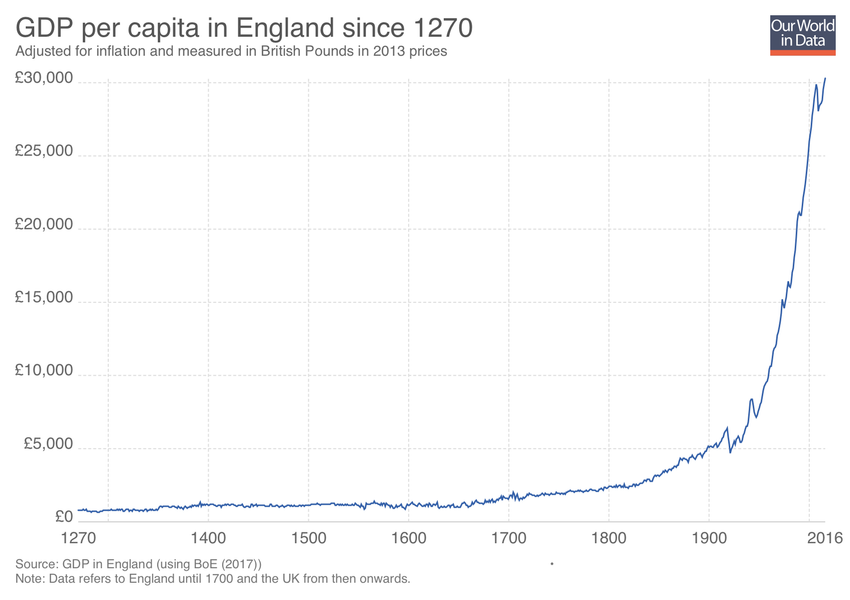
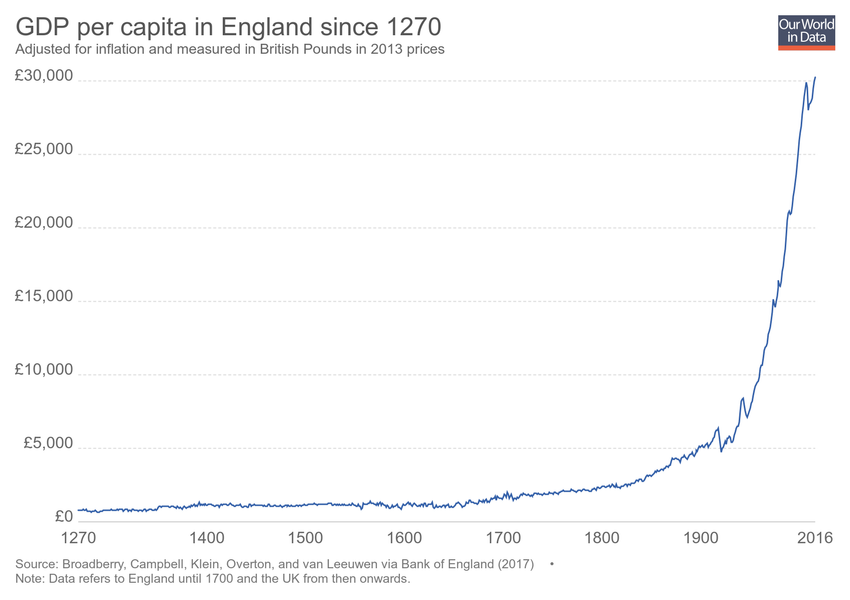
Updating chart GDP-per-capita-in-the-uk-since-1270

diff --git a/grapher/GDP-per-capita-in-the-uk-since-1270.html b/grapher/GDP-per-capita-in-the-uk-since-1270.html
@@ -1,4 +1,4 @@
-<!doctype html><html><head><meta name="viewport" content="width=device-width, initial-scale=1" /><title>GDP per capita in England since 1270 - Our World in Data</title><meta name="description" content="Adjusted for inflation and measured in British Pounds in 2013 prices" /><link rel="canonical" href="https://ourworldindata.org/grapher/GDP-per-capita-in-the-uk-since-1270" /><meta property="fb:app_id" content="1149943818390250" /><meta property="og:url" content="https://ourworldindata.org/grapher/GDP-per-capita-in-the-uk-since-1270" /><meta property="og:title" content="GDP per capita in England since 1270" /><meta property="og:description" content="Adjusted for inflation and measured in British Pounds in 2013 prices" /><meta property="og:image" content="https://ourworldindata.org/grapher/exports/GDP-per-capita-in-the-uk-since-1270.png?v=1" /><meta property="og:image:width" content="850" /><meta property="og:image:height" content="600" /><meta property="og:site_name" content="Our World in Data" /><meta name="twitter:card" content="summary_large_image" /><meta name="twitter:site" content="@OurWorldInData" /><meta name="twitter:creator" content="@OurWorldInData" /><meta name="twitter:title" content="GDP per capita in England since 1270" /><meta name="twitter:description" content="Adjusted for inflation and measured in British Pounds in 2013 prices" /><meta name="twitter:image" content="https://ourworldindata.org/grapher/exports/GDP-per-capita-in-the-uk-since-1270.png?v=1" /><style>
+<!doctype html><html><head><meta name="viewport" content="width=device-width, initial-scale=1" /><title>GDP per capita in England since 1270 - Our World in Data</title><meta name="description" content="Adjusted for inflation and measured in British Pounds in 2013 prices" /><link rel="canonical" href="https://ourworldindata.org/grapher/GDP-per-capita-in-the-uk-since-1270" /><meta property="fb:app_id" content="1149943818390250" /><meta property="og:url" content="https://ourworldindata.org/grapher/GDP-per-capita-in-the-uk-since-1270" /><meta property="og:title" content="GDP per capita in England since 1270" /><meta property="og:description" content="Adjusted for inflation and measured in British Pounds in 2013 prices" /><meta property="og:image" content="https://ourworldindata.org/grapher/exports/GDP-per-capita-in-the-uk-since-1270.png?v=2" /><meta property="og:image:width" content="850" /><meta property="og:image:height" content="600" /><meta property="og:site_name" content="Our World in Data" /><meta name="twitter:card" content="summary_large_image" /><meta name="twitter:site" content="@OurWorldInData" /><meta name="twitter:creator" content="@OurWorldInData" /><meta name="twitter:title" content="GDP per capita in England since 1270" /><meta name="twitter:description" content="Adjusted for inflation and measured in British Pounds in 2013 prices" /><meta name="twitter:image" content="https://ourworldindata.org/grapher/exports/GDP-per-capita-in-the-uk-since-1270.png?v=2" /><style>
         html, body {
             height: 100%;
             margin: 0;
@@ -20,8 +20,8 @@
         }
     </style><noscript><style>
                     figure { display: none !important; }
-                </style></noscript><link rel="stylesheet" href="https://ourworldindata.org/grapher/assets/commons.bundle.521782e703f0fe72f108.css" /><link rel="preload" href="/grapher/data/variables/8845.json?v=1" as="fetch" crossorigin /></head><body class="singleChart"><figure data-grapher-src="/grapher/GDP-per-capita-in-the-uk-since-1270"></figure><noscript id="fallback"><img src="/grapher/exports/GDP-per-capita-in-the-uk-since-1270.svg" /><p>Interactive visualization requires JavaScript</p></noscript><script src="https://cdn.polyfill.io/v2/polyfill.min.js?features=es6,fetch"></script><script src="https://ourworldindata.org/grapher/assets/commons.bundle.521782e703f0fe72f108.js"></script><script src="https://ourworldindata.org/grapher/assets/charts.bundle.521782e703f0fe72f108.js"></script><script>
-        var jsonConfig = {"id":476,"map":{"projection":"World","targetYear":1980,"variableId":1612,"timeTolerance":1,"baseColorScheme":"BuGn","colorSchemeInvert":false,"colorSchemeLabels":[],"colorSchemeValues":[],"defaultProjection":"World","legendDescription":"","customColorsActive":false,"colorSchemeMinValue":0,"customNumericColors":[],"customCategoryColors":[],"customCategoryLabels":[],"customHiddenCategories":[]},"tab":"chart","note":"Data refers to England until 1700 and the UK from then onwards.","slug":"GDP-per-capita-in-the-uk-since-1270","type":"LineChart","title":"GDP per capita in England since 1270","xAxis":{"scaleType":"linear"},"yAxis":{"min":0,"prefix":"£","scaleType":"linear","labelDistance":-10,"canChangeScaleType":true},"version":1,"subtitle":"Adjusted for inflation and measured in British Pounds in 2013 prices","hasMapTab":false,"originUrl":"https://ourworldindata.org/economic-growth","stackMode":null,"dimensions":[{"display":{"unit":"£","tolerance":5,"isProjection":false},"property":"y","variableId":8845}],"entityType":"country","hideLegend":true,"hasChartTab":true,"isPublished":true,"selectedData":[{"index":0,"entityId":16818}],"internalNotes":"","addCountryMode":"disabled","hideRelativeToggle":false,"hideTitleAnnotation":true};
+                </style></noscript><link rel="stylesheet" href="https://ourworldindata.org/grapher/assets/commons.bundle.521782e703f0fe72f108.css" /><link rel="preload" href="/grapher/data/variables/8845.json?v=2" as="fetch" crossorigin /></head><body class="singleChart"><figure data-grapher-src="/grapher/GDP-per-capita-in-the-uk-since-1270"></figure><noscript id="fallback"><img src="/grapher/exports/GDP-per-capita-in-the-uk-since-1270.svg" /><p>Interactive visualization requires JavaScript</p></noscript><script src="https://cdn.polyfill.io/v2/polyfill.min.js?features=es6,fetch"></script><script src="https://ourworldindata.org/grapher/assets/commons.bundle.521782e703f0fe72f108.js"></script><script src="https://ourworldindata.org/grapher/assets/charts.bundle.521782e703f0fe72f108.js"></script><script>
+        var jsonConfig = {"id":476,"map":{"projection":"World","targetYear":1980,"variableId":1612,"timeTolerance":1,"baseColorScheme":"BuGn","colorSchemeInvert":false,"colorSchemeLabels":[],"colorSchemeValues":[],"legendDescription":"","customColorsActive":false,"colorSchemeMinValue":0,"customNumericColors":[],"customCategoryColors":[],"customCategoryLabels":[],"customHiddenCategories":[]},"tab":"chart","note":"Data refers to England until 1700 and the UK from then onwards.","slug":"GDP-per-capita-in-the-uk-since-1270","type":"LineChart","title":"GDP per capita in England since 1270","xAxis":{"scaleType":"linear"},"yAxis":{"min":0,"prefix":"£","scaleType":"linear","labelDistance":-10,"canChangeScaleType":true},"version":2,"subtitle":"Adjusted for inflation and measured in British Pounds in 2013 prices","hasMapTab":false,"originUrl":"https://ourworldindata.org/economic-growth","stackMode":null,"dimensions":[{"display":{"unit":"£","tolerance":5,"isProjection":false},"property":"y","variableId":8845}],"entityType":"country","hideLegend":true,"sourceDesc":"Broadberry, Campbell, Klein, Overton, and van Leeuwen via Bank of England (2017)","hasChartTab":true,"isPublished":true,"selectedData":[{"index":0,"entityId":16818}],"internalNotes":"","addCountryMode":"disabled","hideRelativeToggle":false,"hideTitleAnnotation":true};
         var figure = document.getElementsByTagName("figure")[0];
         try {
             window.App = {};
